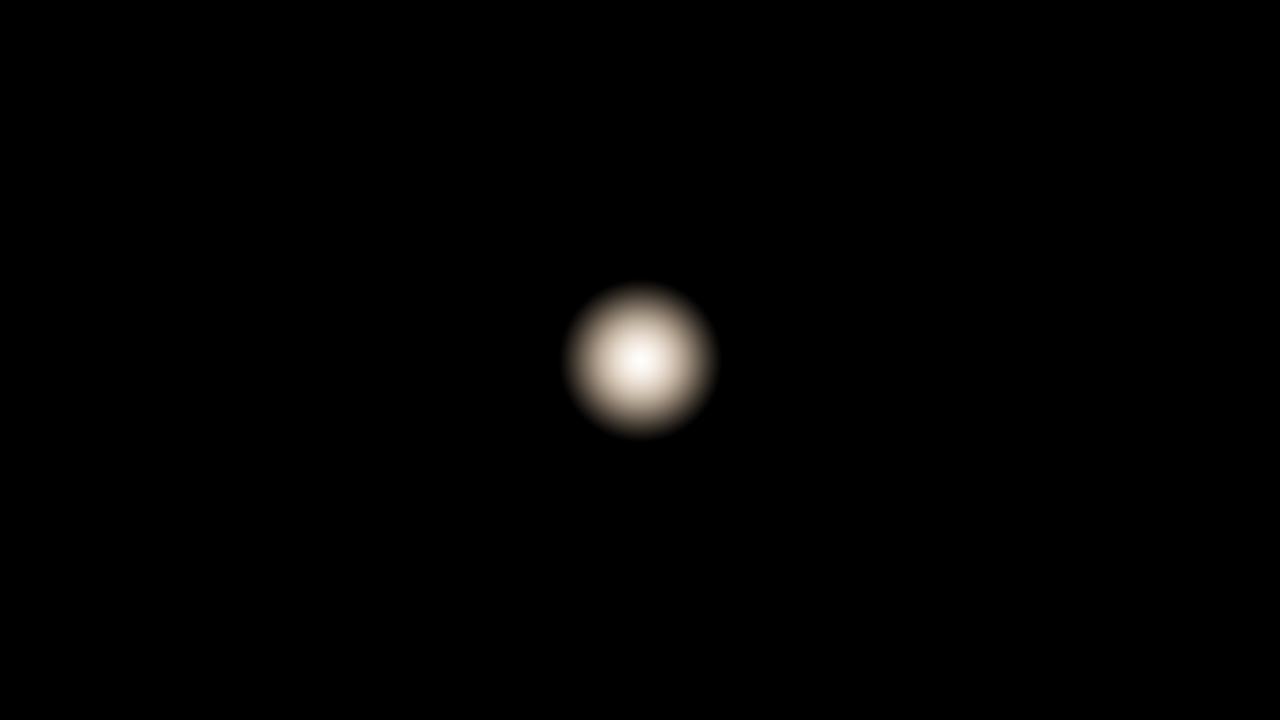
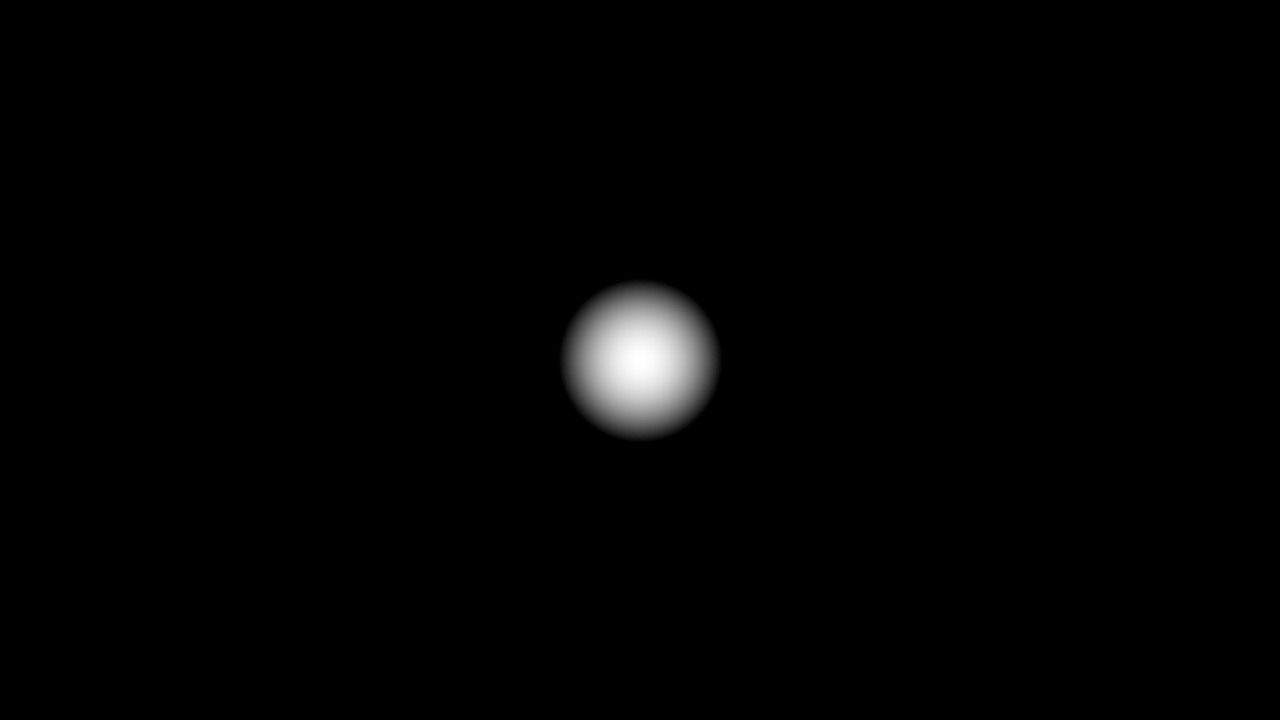
+ refactor random loot lists + circle fade out transition imporved (with fading out + texture) + enemy factory has currently static drop list, uses only level 0 droplist

Changed region(s): [[0.4375, 0.3972, 0.5625, 0.6111]]

diff --git a/Content/Core/Entities/Interactables/Loot/RandomLoot.cs b/Content/Core/Entities/Interactables/Loot/RandomLoot.cs
@@ -13,11 +13,6 @@ namespace _2DRoguelike.Content.Core.Entities.Loot
 {
     public class RandomLoot
     {
-        // Item IDS 
-        
-        // wieso keine Weapon-Enums? Sind Aussagekräftiger, als IDs 
-
-        // drop types
         public enum DropType
         {
             chestNormal,
@@ -40,70 +35,66 @@ namespace _2DRoguelike.Content.Core.Entities.Loot
             SPEED_POTION
         }
 
-        // List mit keyvaluepairs um items mit gleiche wahrscheinlichkeit zu erlauben
-        private static List<KeyValuePair<int, Items>> chestNormalDroplist = new List<KeyValuePair<int, Items>>()
+
+        /*
+         Drop table has the following Structure: 
+         Dictionary containg a droptype(loot source, example: chest/zombie etc) and it's corresponding List with items (its loot table) and then a
+         List with keyvaluepairs (so certain items can have same drop percentage) consisting of an int (drop percentage) and an item (dropped item)
+        */
+        private static Dictionary<DropType, List<KeyValuePair<int, Items>>> dropTables = new Dictionary<DropType, List<KeyValuePair<int, Items>>>()
         {
-            new KeyValuePair<int,Items>(40,Items.DAGGER), // 40% chance to get Dagger (id 0)
-            new KeyValuePair<int,Items>(30,Items.BOW), // 30% chance to get Bow (id 1)
-            new KeyValuePair<int,Items>(15,Items.BOMB), // 10% chance to get Bomb (id 3)
-            new KeyValuePair<int,Items>(10,Items.HEALTH_POTION), // 10% chance to get Healthpotion (id 5)
-            new KeyValuePair<int, Items>(5,Items.SPEAR) // 5% chance to get Spear (id 4)
+
+            {
+                DropType.chestNormal, new List<KeyValuePair<int, Items>>()
+                {
+                    new KeyValuePair<int,Items>(40,Items.DAGGER), // 40% chance to get Dagger (id 0)
+                    new KeyValuePair<int,Items>(30,Items.BOW), // 30% chance to get Bow (id 1)
+                    new KeyValuePair<int,Items>(15,Items.BOMB), // 10% chance to get Bomb (id 3
+                    new KeyValuePair<int,Items>(10,Items.HEALTH_POTION), // 10% chance to get Healthpotion (id 5)
+                    new KeyValuePair<int, Items>(5,Items.SPEAR) // 5% chance to get Spear (id 4)
+                }
+            },
+            {
+                DropType.chestDiamond,new List<KeyValuePair<int, Items>>()      
+                {
+                    new KeyValuePair<int,Items>(40,Items.DAGGER), // 40% chance to get Dagger (id 0)
+                    new KeyValuePair<int,Items>(30,Items.BOW), // 30% chance to get Bow (id 1)
+                    new KeyValuePair<int,Items>(15,Items.BOMB), // 10% chance to get Bomb (id 3)
+                    new KeyValuePair<int,Items>(10,Items.HEALTH_POTION), // 10% chance to get Healthpotion (id 5)
+                    new KeyValuePair<int, Items>(5,Items.SPEAR) // 5% chance to get Spear (id 4)
+                }
+            },
+            {
+                DropType.lootbagZombie,new List<KeyValuePair<int, Items>>()
+                {
+                    new KeyValuePair<int,Items>(40,Items.DAGGER),
+                    new KeyValuePair<int,Items>(30,Items.BOW),
+                    new KeyValuePair<int,Items>(10,Items.XP_POTION),
+                    new KeyValuePair<int,Items>(10,Items.BOMB),
+                    new KeyValuePair<int,Items>(10,Items.HEALTH_POTION)
+                }
+            },
+            {
+                DropType.lootbagSkeleton,new List<KeyValuePair<int, Items>>()
+                {
+                    new KeyValuePair<int,Items>(50,Items.DAGGER),
+                    new KeyValuePair<int,Items>(50,Items.BOW)
+                }
+            },
+            {
+                DropType.lootbagWizard,new List<KeyValuePair<int, Items>>()
+                {
+                    new KeyValuePair<int,Items>(50,Items.DAGGER),
+                    new KeyValuePair<int,Items>(50,Items.BOW)
+                }
+            }
+
         };
-
-        private static List<KeyValuePair<int, Items>> chestDiamondDroplist = new List<KeyValuePair<int, Items>>()
-        {
-            new KeyValuePair<int,Items>(50,Items.AXE),
-            new KeyValuePair<int,Items>(30,Items.HEALTH_POTION),
-            new KeyValuePair<int, Items>(20,Items.SPEAR)
-        };
-
-        private static List<KeyValuePair<int, Items>> lootbagZombieDroplist = new List<KeyValuePair<int, Items>>()
-        {
-            new KeyValuePair<int,Items>(40,Items.DAGGER),
-            new KeyValuePair<int,Items>(30,Items.BOW),
-            new KeyValuePair<int,Items>(10,Items.XP_POTION),
-            new KeyValuePair<int,Items>(10,Items.BOMB),
-            new KeyValuePair<int,Items>(10,Items.HEALTH_POTION)
-        };
-
-        private static List<KeyValuePair<int, Items>> lootbagSkeletonDroplist = new List<KeyValuePair<int, Items>>()
-        {
-            new KeyValuePair<int,Items>(50,Items.DAGGER),
-            new KeyValuePair<int,Items>(50,Items.BOW)
-        };
-
-
 
         // Main method used to spawn the loot!
         public static void SpawnLoot(DropType type,Vector2 pos)
         {
-
-            Items chosenItem;
-            //type = 1;
-            switch (type)
-            {
-                // Normal Chest Loot
-                case DropType.chestNormal:
-                    chosenItem = DetermineLoot(chestNormalDroplist);
-                    break;
-                // Diamond Chest Loot
-                case DropType.chestDiamond:
-                    chosenItem = DetermineLoot(chestDiamondDroplist);
-                    break;
-                // Zombies Loot bag 
-                case DropType.lootbagZombie:
-                    chosenItem = DetermineLoot(lootbagZombieDroplist);
-                    break;
-                // skeleton loot bag
-                case DropType.lootbagSkeleton:
-                    chosenItem = DetermineLoot(lootbagSkeletonDroplist);
-                    break;
-                default:
-                    chosenItem = Items.DAGGER;
-                    break;
-            }
-            //Debug.Print("Chosen item to spawn is " + chosenItem);
-            PlaceLoot(chosenItem, pos);
+            PlaceLoot(DetermineLoot(dropTables[type]), pos);
         }
 
         private static Items DetermineLoot(List<KeyValuePair<int, Items>> dropList)
@@ -189,5 +180,84 @@ namespace _2DRoguelike.Content.Core.Entities.Loot
                 return DropType.chestNormal;
             }
         }
+
+        #region OLD LOOTABLE
+        /*
+        public static void SpawnLoot(DropType type, Vector2 pos)
+        {
+            /*
+            Items chosenItem;
+            //type = 1;
+            switch (type)
+            {
+                // Normal Chest Loot
+                case DropType.chestNormal:
+                    chosenItem = DetermineLoot(chestNormalDroplist);
+                    break;
+                // Diamond Chest Loot
+                case DropType.chestDiamond:
+                    chosenItem = DetermineLoot(chestDiamondDroplist);
+                    break;
+                // Zombies Loot bag 
+                case DropType.lootbagZombie:
+                    chosenItem = DetermineLoot(lootbagZombieDroplist);
+                    break;
+                // skeleton loot bag
+                case DropType.lootbagSkeleton:
+                    chosenItem = DetermineLoot(lootbagSkeletonDroplist);
+                    break;
+                default:
+                    chosenItem = Items.DAGGER;
+                    break;
+            }
+            //Debug.Print("Chosen item to spawn is " + chosenItem
+            PlaceLoot(choosenItem, pos);
+        }
+
+        
+       // List mit keyvaluepairs um items mit gleiche wahrscheinlichkeit zu erlauben
+       private static List<KeyValuePair<int, Items>> chestNormal = new List<KeyValuePair<int, Items>>()
+       {
+           new KeyValuePair<int,Items>(40,Items.DAGGER), // 40% chance to get Dagger (id 0)
+           new KeyValuePair<int,Items>(30,Items.BOW), // 30% chance to get Bow (id 1)
+           new KeyValuePair<int,Items>(15,Items.BOMB), // 10% chance to get Bomb (id 3)
+           new KeyValuePair<int,Items>(10,Items.HEALTH_POTION), // 10% chance to get Healthpotion (id 5)
+           new KeyValuePair<int, Items>(5,Items.SPEAR) // 5% chance to get Spear (id 4)
+       };
+
+       // List mit keyvaluepairs um items mit gleiche wahrscheinlichkeit zu erlauben
+       private static List<KeyValuePair<int, Items>> chestNormalDroplist = new List<KeyValuePair<int, Items>>()
+       {
+           new KeyValuePair<int,Items>(40,Items.DAGGER), // 40% chance to get Dagger (id 0)
+           new KeyValuePair<int,Items>(30,Items.BOW), // 30% chance to get Bow (id 1)
+           new KeyValuePair<int,Items>(15,Items.BOMB), // 10% chance to get Bomb (id 3)
+           new KeyValuePair<int,Items>(10,Items.HEALTH_POTION), // 10% chance to get Healthpotion (id 5)
+           new KeyValuePair<int, Items>(5,Items.SPEAR) // 5% chance to get Spear (id 4)
+       };
+
+       private static List<KeyValuePair<int, Items>> chestDiamondDroplist = new List<KeyValuePair<int, Items>>()
+       {
+           new KeyValuePair<int,Items>(50,Items.AXE),
+           new KeyValuePair<int,Items>(30,Items.HEALTH_POTION),
+           new KeyValuePair<int, Items>(20,Items.SPEAR)
+       };
+
+       private static List<KeyValuePair<int, Items>> lootbagZombieDroplist = new List<KeyValuePair<int, Items>>()
+       {
+           new KeyValuePair<int,Items>(40,Items.DAGGER),
+           new KeyValuePair<int,Items>(30,Items.BOW),
+           new KeyValuePair<int,Items>(10,Items.XP_POTION),
+           new KeyValuePair<int,Items>(10,Items.BOMB),
+           new KeyValuePair<int,Items>(10,Items.HEALTH_POTION)
+       };
+
+       private static List<KeyValuePair<int, Items>> lootbagSkeletonDroplist = new List<KeyValuePair<int, Items>>()
+       {
+           new KeyValuePair<int,Items>(50,Items.DAGGER),
+           new KeyValuePair<int,Items>(50,Items.BOW)
+       };
+       */
+
+        #endregion
     }
 }

diff --git a/Content/Core/Entities/Creatures/Enemies/EnemyFactory.cs b/Content/Core/Entities/Creatures/Enemies/EnemyFactory.cs
@@ -70,8 +70,9 @@ namespace _2DRoguelike.Content.Core.Entities.Creatures.Enemies
         public static EnemyType ChooseEnemy()
         {
             int randomPercentage = Game1.rand.Next(0, 101);
-            
-            foreach (var enemyPercentage in levelEnemies[LevelManager.level])
+
+            // Paramter 0 sollte mit LevelManager.level ersetzt werden! (jetzt 0 damit ich nicht fur jedes Level enemy list erstelle)
+            foreach (var enemyPercentage in levelEnemies[0])
             {
                 if (randomPercentage <= enemyPercentage.Key)
                 {

diff --git a/Content/Core/UI/Cutscenes/FadeOutCircle.cs b/Content/Core/UI/Cutscenes/FadeOutCircle.cs
@@ -50,7 +50,9 @@ namespace _2DRoguelike.Content.Core.Cutscenes
 
             // center the image depending on resolution
             position = new Vector2((cutsceneTexture.Width * scalingFactor / 2), (cutsceneTexture.Height * scalingFactor / 2));
-            
+
+            if (scale > scalingFactor * 10) transparency-=0.01f;
+
             // if cutscene done, remove it
             if (timer >= sceneDuration) cutsceneDone = true;
 
